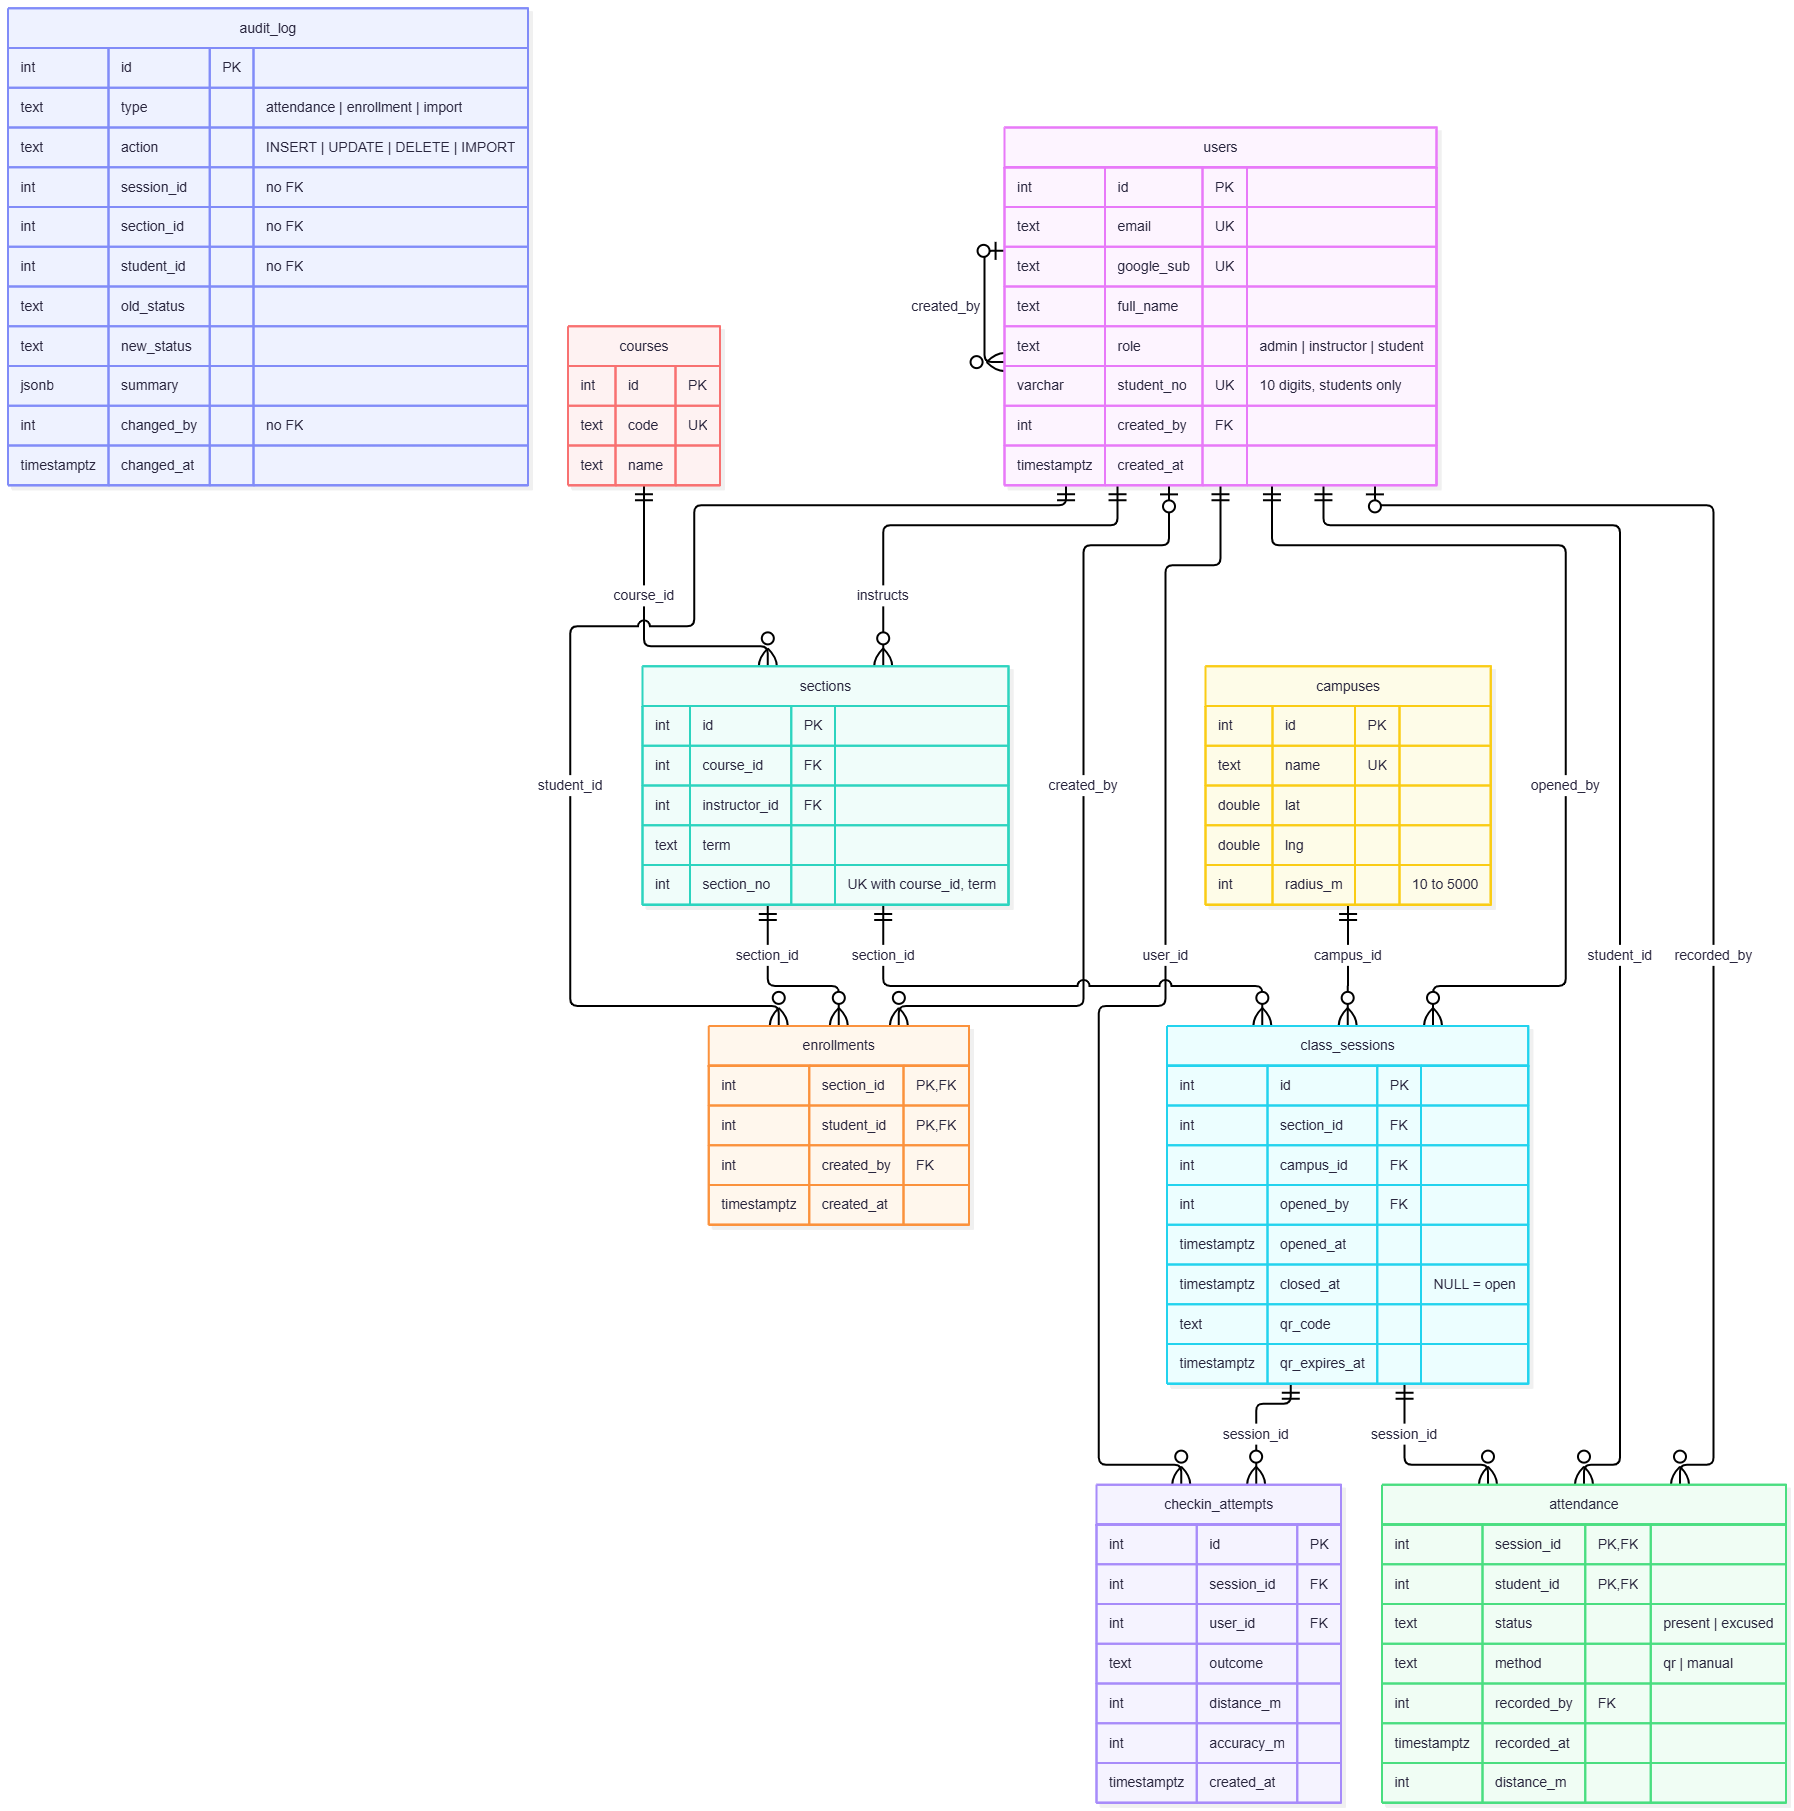
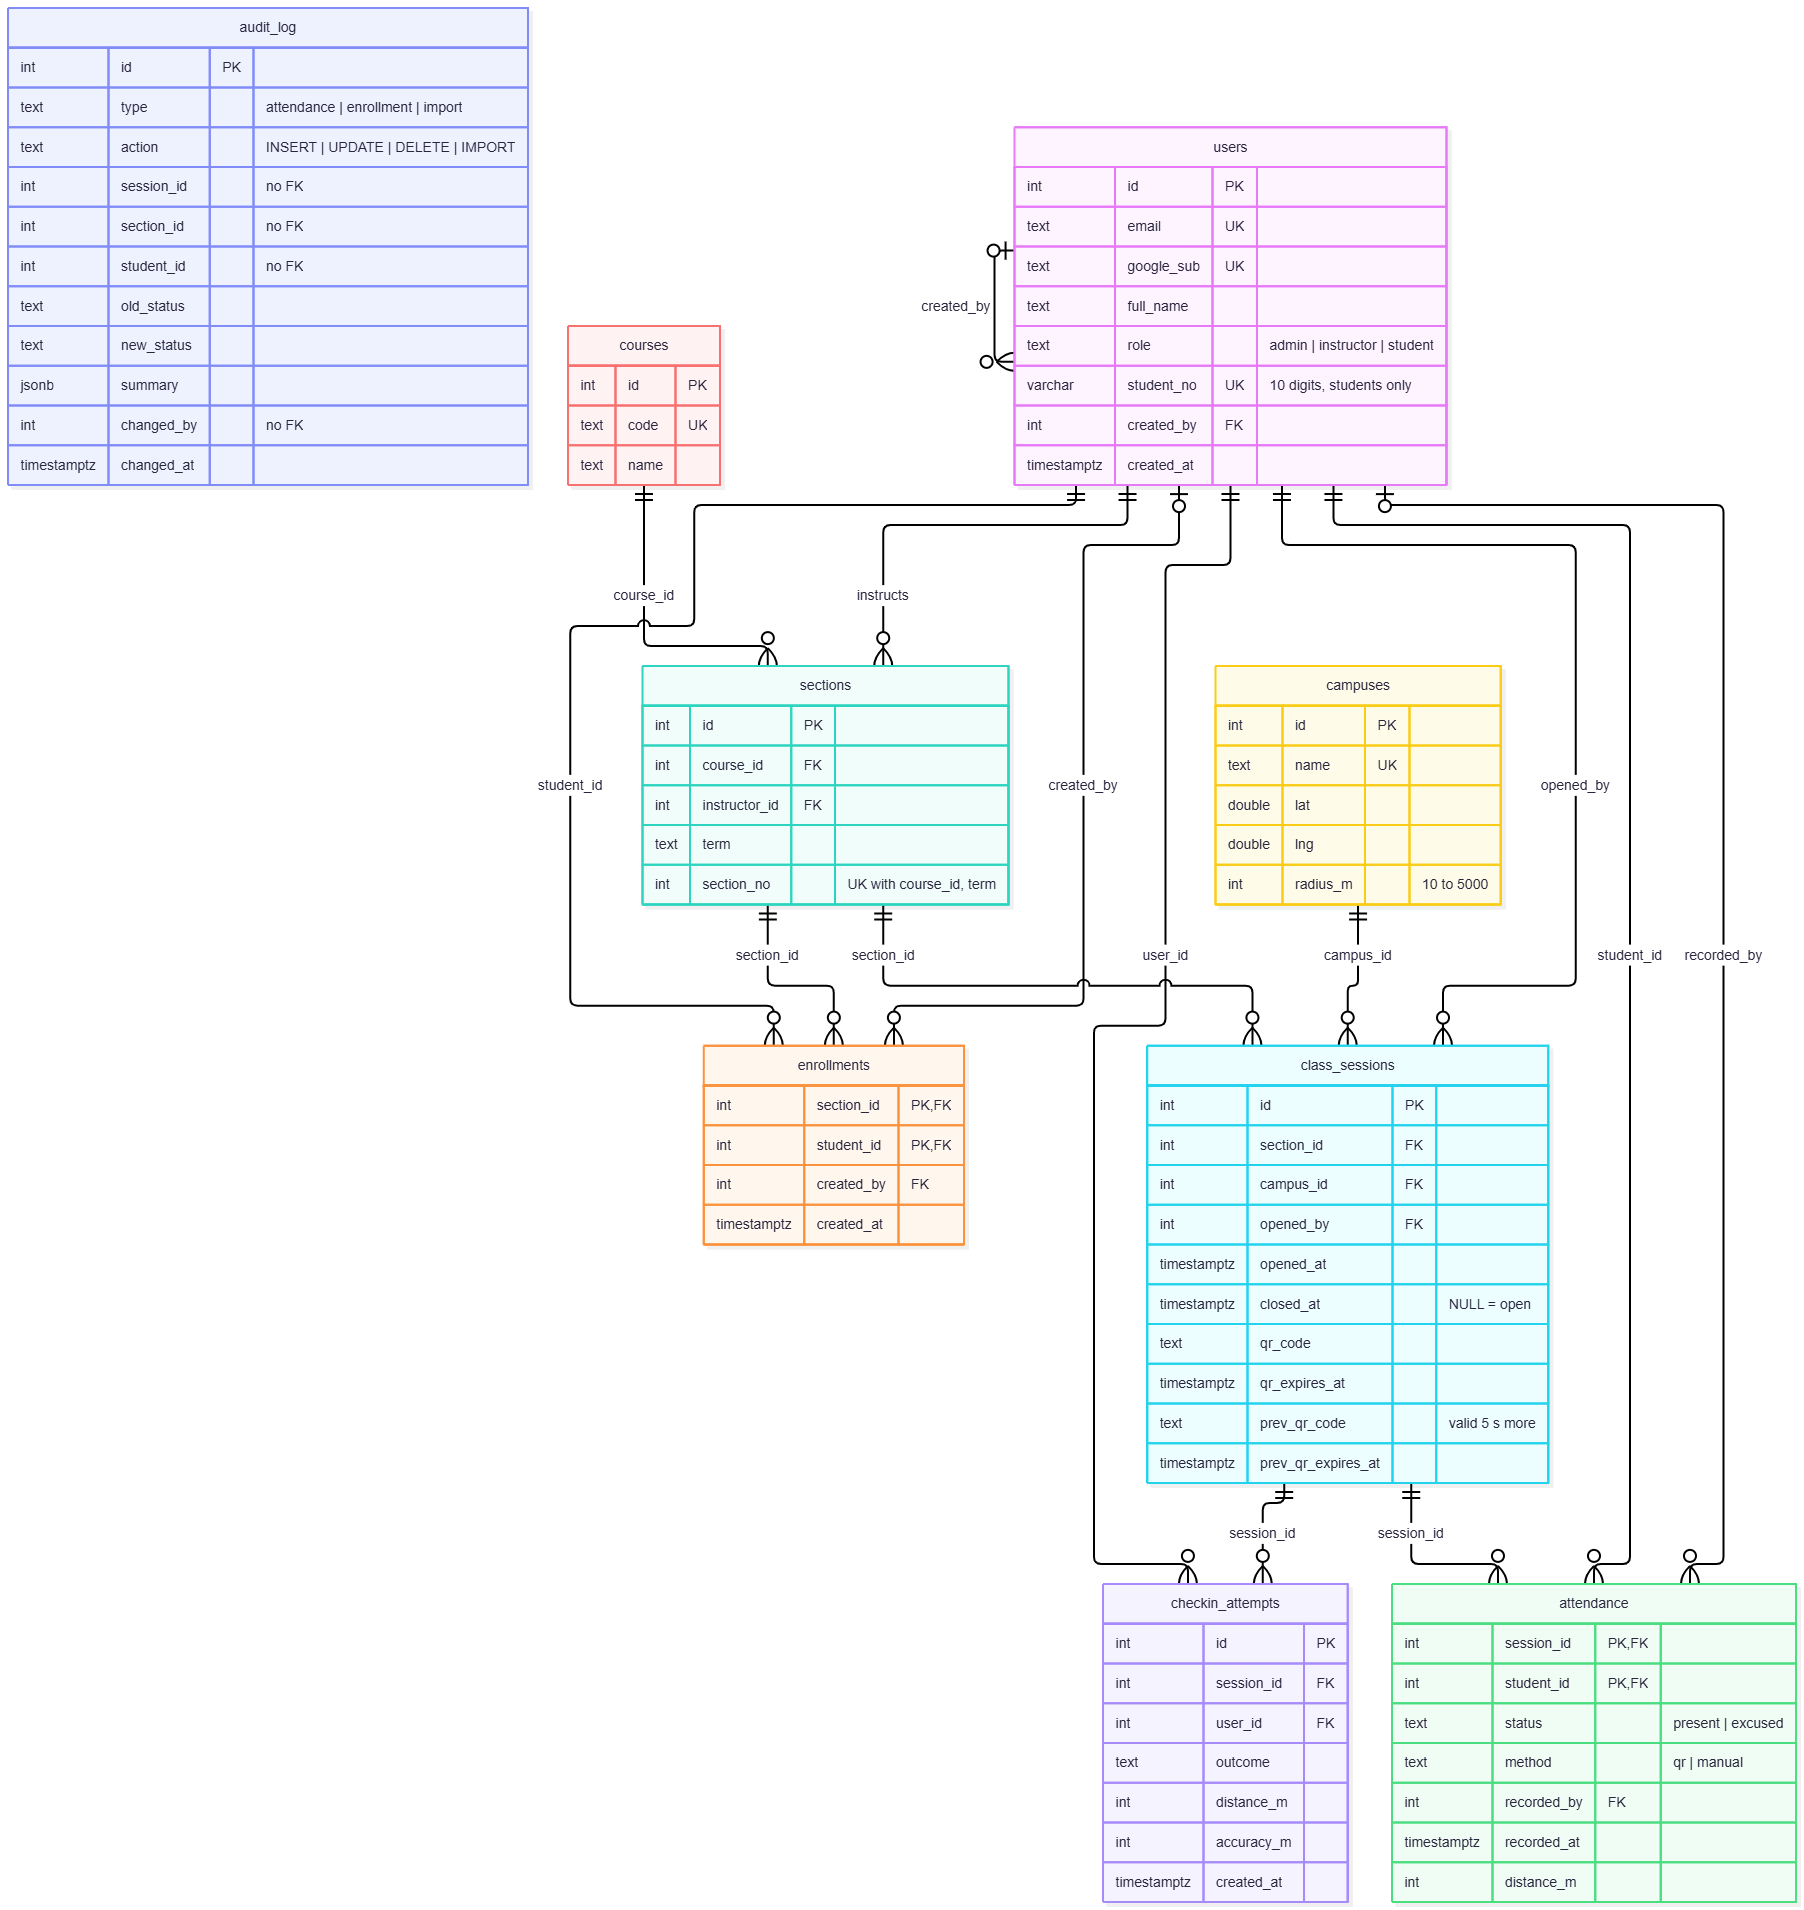
Keep the previous QR code for 5 s (#107)
class_sessions gets prev_qr_code and prev_qr_expires_at (both nullable).
When getQr rotates the code, the same UPDATE copies the old code into
prev_qr_code and sets prev_qr_expires_at to now() + 5 s; the right-hand
side of an UPDATE sees the old row, so this needs no extra query and
stays safe when several pages poll at once. closeSession clears the
previous code too. PREV_QR_SECONDS lives in lib/qr.js next to QR_SECONDS.

schema.sql, docs/ERD.mmd and ERD.png are updated. An existing database
needs the ALTER TABLE shown in the schema comment. The /scan side is #108.

Changed region(s): [[0.0, 0.0, 0.9989, 1.0], [0.9365, 0.4948, 0.9677, 0.5566], [0.9365, 0.2783, 0.9677, 0.3092]]

diff --git a/server/controllers/sessions.js b/server/controllers/sessions.js
@@ -1,6 +1,6 @@
 const pool = require('../db');
 const { validateOpenSession } = require('../lib/sessionRules');
-const { QR_SECONDS, newCode, scanUrl } = require('../lib/qr');
+const { QR_SECONDS, PREV_QR_SECONDS, newCode, scanUrl } = require('../lib/qr');
 const { ownSection, ownSession } = require('../lib/ownership');
 
 async function mySections(req, res, next) {
@@ -74,7 +74,7 @@ async function closeSession(req, res, next) {
     if (own.error) return res.status(own.status).json({ error: own.error });
 
     const { rows } = await pool.query(
-      `UPDATE class_sessions SET closed_at = now(), qr_code = NULL
+      `UPDATE class_sessions SET closed_at = now(), qr_code = NULL, prev_qr_code = NULL
        WHERE id = $1 AND closed_at IS NULL
        RETURNING id, closed_at`,
       [own.session.id]
@@ -90,6 +90,8 @@ async function closeSession(req, res, next) {
 // Making a new code is ONE conditional UPDATE, so two pages polling at the same moment cannot
 // both win. The second UPDATE waits for the first, sees a code that has not expired, and changes
 // nothing. It then reads the code the first one made.
+// The code being replaced is kept as prev_qr_code for PREV_QR_SECONDS more: in an UPDATE the right-hand
+// side sees the OLD row, so `qr_code` in `prev_qr_code = qr_code` is still the code that just ran out.
 async function getQr(req, res, next) {
   try {
     const own = await ownSession(req);
@@ -98,10 +100,13 @@ async function getQr(req, res, next) {
 
     let current = (await pool.query(
       `UPDATE class_sessions
-       SET qr_code = $2, qr_expires_at = now() + ($3::int * interval '1 second')
+       SET prev_qr_code = qr_code,
+           prev_qr_expires_at = now() + ($4::int * interval '1 second'),
+           qr_code = $2,
+           qr_expires_at = now() + ($3::int * interval '1 second')
        WHERE id = $1 AND closed_at IS NULL AND (qr_code IS NULL OR qr_expires_at <= now())
        RETURNING qr_code, qr_expires_at`,
-      [own.session.id, newCode(), QR_SECONDS]
+      [own.session.id, newCode(), QR_SECONDS, PREV_QR_SECONDS]
     )).rows[0];
 
     if (!current) {

diff --git a/server/tests/qr.test.js b/server/tests/qr.test.js
@@ -1,6 +1,6 @@
 const test = require('node:test');
 const assert = require('node:assert');
-const { QR_SECONDS, CODE_BYTES, newCode, scanUrl } = require('../lib/qr');
+const { QR_SECONDS, PREV_QR_SECONDS, CODE_BYTES, newCode, scanUrl } = require('../lib/qr');
 const { validateOpenSession } = require('../lib/sessionRules');
 
 test('a code is 6 lowercase hex characters, and two codes differ', () => {
@@ -16,6 +16,10 @@ test('a code is 6 lowercase hex characters, and two codes differ', () => {
 
 test('a code lasts 10 seconds', () => {
   assert.equal(QR_SECONDS, 10);
+});
+
+test('the code that was just replaced still works for 5 more seconds', () => {
+  assert.equal(PREV_QR_SECONDS, 5);
 });
 
 test('scanUrl builds /scan?s=<session>&c=<code> on the given origin', () => {

diff --git a/server/lib/qr.js b/server/lib/qr.js
@@ -4,6 +4,7 @@
 const crypto = require('crypto');
 
 const QR_SECONDS = 10; // how long one code is valid
+const PREV_QR_SECONDS = 5; // after a new code replaces it, the old one still works this long (scan + network time)
 const CODE_BYTES = 3;  // 3 random bytes = 6 hex characters, like "ab39f2" in docs/API.md
 
 const newCode = () => crypto.randomBytes(CODE_BYTES).toString('hex');
@@ -14,4 +15,4 @@ function scanUrl(origin, sessionId, code) {
   return `${String(origin).replace(/\/+$/, '')}/scan?${params}`;
 }
 
-module.exports = { QR_SECONDS, CODE_BYTES, newCode, scanUrl };
+module.exports = { QR_SECONDS, PREV_QR_SECONDS, CODE_BYTES, newCode, scanUrl };
